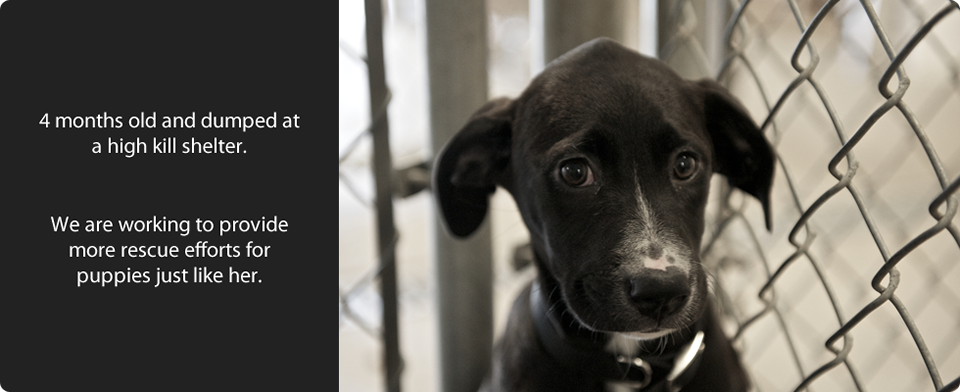
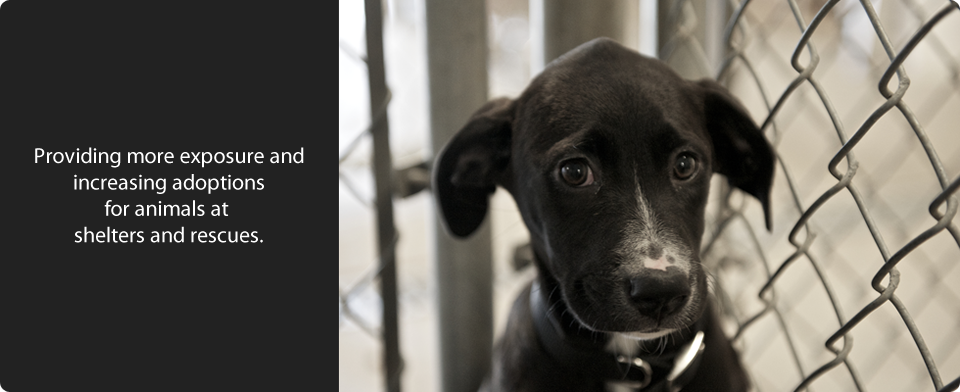
Updated code to allow for a Transferred status and text enhancements

Changed region(s): [[0.0312, 0.2755, 0.3125, 0.4898], [0.0312, 0.5204, 0.3125, 0.7347]]

diff --git a/app/models/animal_status.rb b/app/models/animal_status.rb
@@ -5,9 +5,9 @@ class AnimalStatus < ActiveRecord::Base
   STATUSES = {
     :available_for_adoption => 1, :adopted => 2, :foster_care => 3, :new_intake => 4, :in_transit => 5,
     :rescue_candidate => 6, :stray_intake => 7, :on_hold_behavioral => 8, :on_hold_medical => 9, :on_hold_bite => 10,
-    :on_hold_custody => 11, :reclaim => 12, :deceased => 13, :euthanized => 14 }.freeze
+    :on_hold_custody => 11, :reclaim => 12, :deceased => 13, :euthanized => 14, :transferred => 15 }.freeze
   ACTIVE = [1,3,4,5,6,7,8,9,10,11].freeze
-  NON_ACTIVE = [2,12,13,14].freeze
+  NON_ACTIVE = [2,12,13,14,15].freeze
   
   EXTRA_STATUS_FILTERS = [["All Active", :active], ["All Non-Active", :non_active]].freeze
   

diff --git a/app/controllers/admin/dashboard_controller.rb b/app/controllers/admin/dashboard_controller.rb
@@ -3,7 +3,8 @@ class Admin::DashboardController < Admin::ApplicationController
   
   def index
     @counts_by_status = Animal.unscoped.joins(:animal_status).group("animal_statuses.name").limit(nil).count
-    @counts_by_transfer = Transfer.where(:status => Transfer::COMPLETED).count
+    @counts_by_transfer_with_app = Transfer.where(:status => Transfer::COMPLETED).count
+    @counts_by_transfer_without_app = Animal.where(:animal_status_id => AnimalStatus::STATUSES[:transferred]).count
     @kill_shelters_count = Shelter.kill_shelters.count
     @no_kill_shelters_count = Shelter.no_kill_shelters.count
     @all_shelters_count = Shelter.count

diff --git a/app/models/animal.rb b/app/models/animal.rb
@@ -274,6 +274,10 @@ class Animal < ActiveRecord::Base
   def euthanized?
     self.animal_status_id == AnimalStatus::STATUSES[:euthanized]
   end
+  
+  def transferred?
+    self.animal_status_id == AnimalStatus::STATUSES[:transferred]
+  end
 
   def dog?
     self.animal_type_id == AnimalType::TYPES[:dog]

diff --git a/db/seeds.rb b/db/seeds.rb
@@ -66,7 +66,8 @@ AnimalStatus.create([
   { :name => "On Hold - Custody" },
   { :name => "Reclaim" },
   { :name => "Deceased" },
-  { :name => "Euthanized" }
+  { :name => "Euthanized" },
+  { :name => "Transferred" }
 ])
 
 
